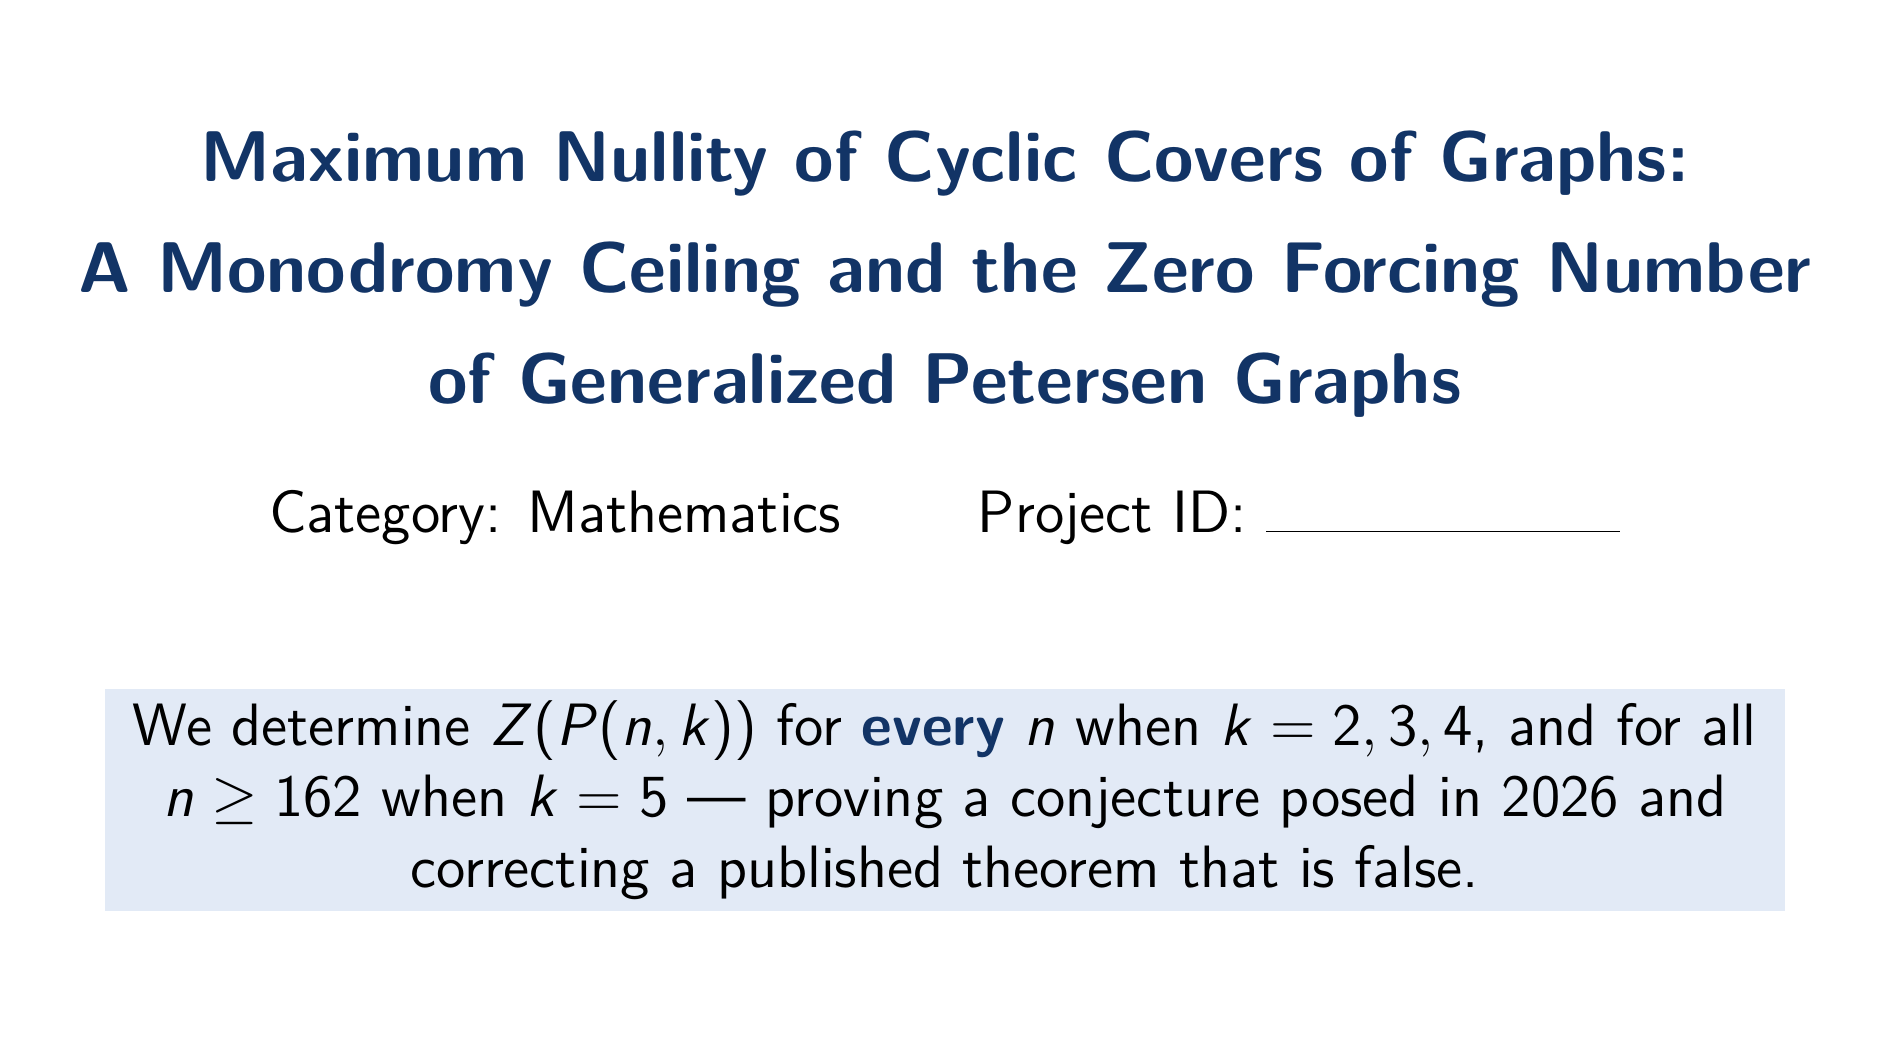
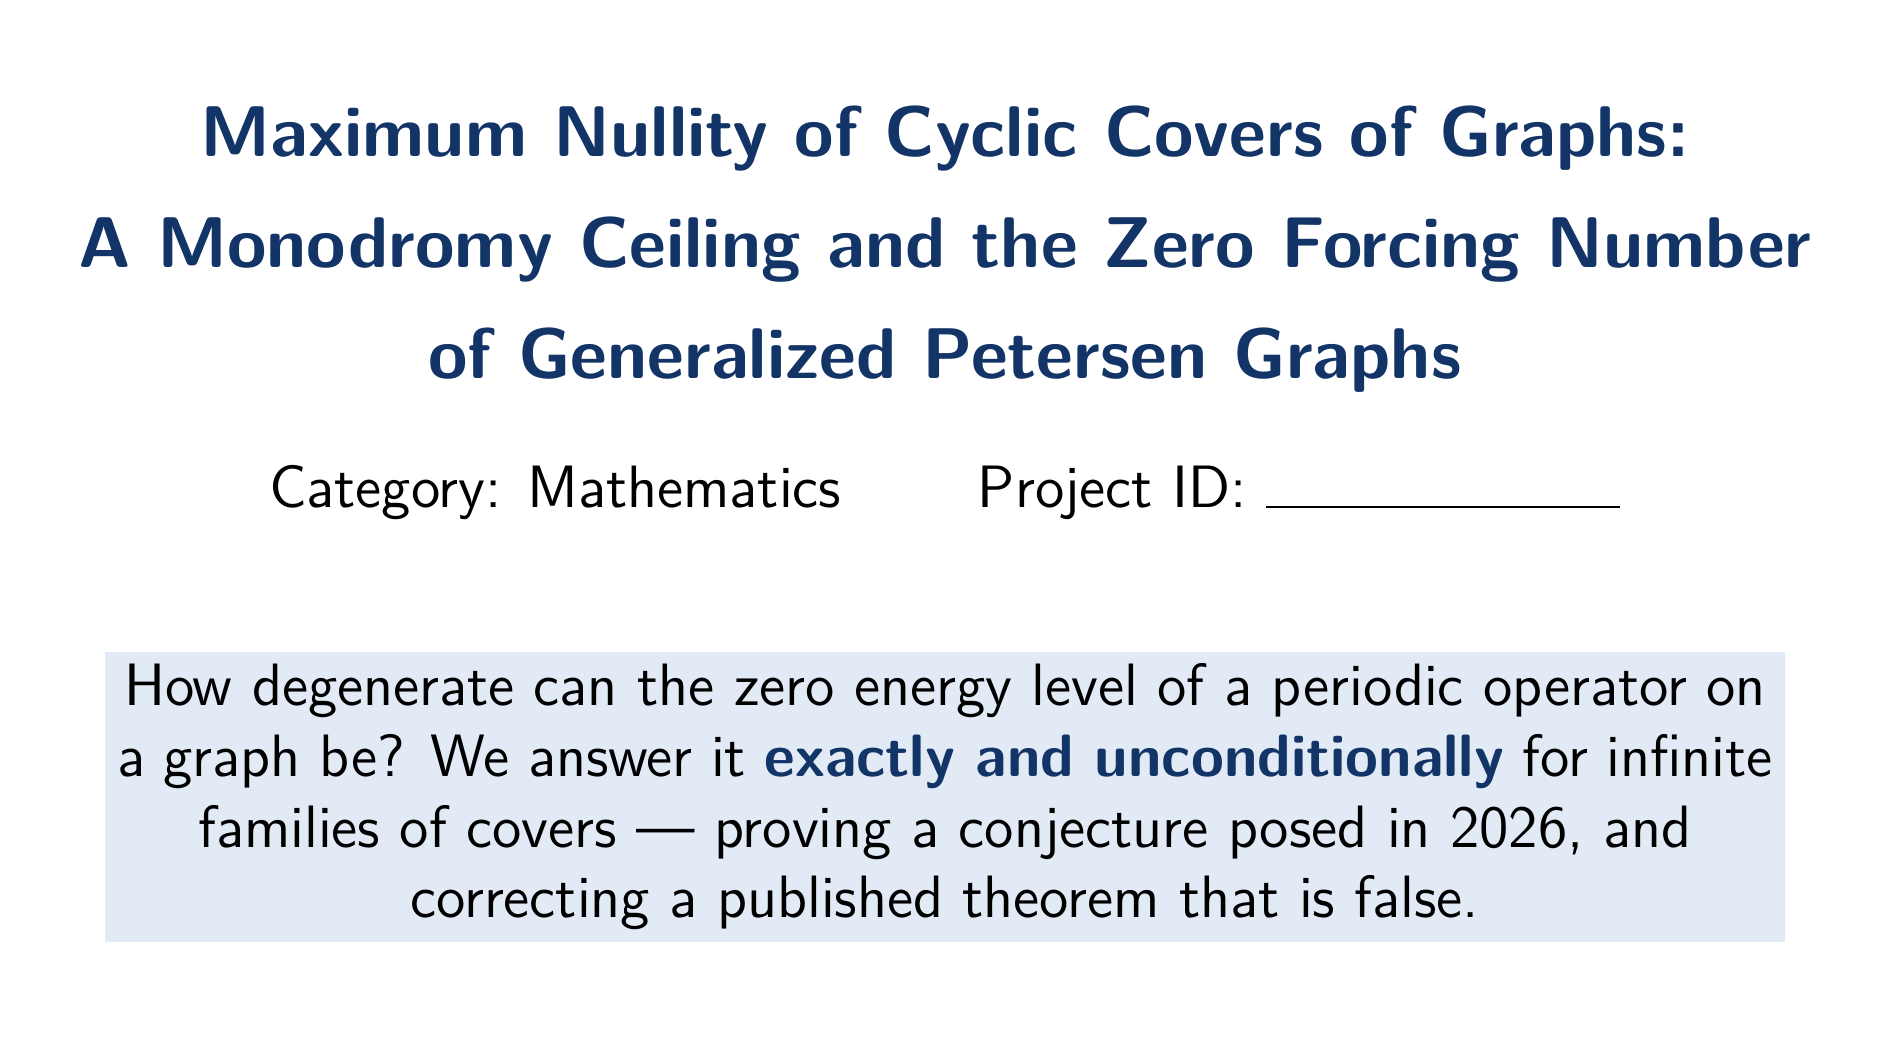
Refine deliverables, interview prep guide, and clarify M(P(n,4)) exact open counts

diff --git a/manuscript/zf_paper.tex b/manuscript/zf_paper.tex
@@ -2235,13 +2235,12 @@ Together with Theorem~\ref{thm:k3all} for $n\ge29$ this leaves \emph{no} value
 of $Z(P(n,4))$ undetermined, which is why $k=4$ appears in
 Theorem~\ref{thm:complete}.
 
-The matrix statement is slightly weaker than the forcing statement at two
-values. $M(P(n,4))=10$ is proved for every $n\ge29$ by
-Theorem~\ref{thm:k3all}, for $n=25,26,27$ by individual certificates, and for
-every $n$ divisible by $60$, $70$ or $90$ by Theorem~\ref{thm:certvals}. At
-$n=24$ and $n=28$ we know $Z=10$ but have no certificate, so $M$ is not
-determined there; nothing suggests $M<Z$ at those two, we simply have not found
-the matrix.
+The matrix statement is weaker than the forcing statement at exactly one value.
+$M(P(n,4))=10$ is proved for every $n\ge29$ by Theorem~\ref{thm:k3all}, for
+$n=25,26,27,28$ by individual certificates, and for every $n$ divisible by $60$,
+$70$ or $90$ by Theorem~\ref{thm:certvals}. Only at $n=24$ do we know $Z=10$
+without a certificate, so $M(P(24,4))$ is not determined; nothing suggests
+$M<Z$ there, we simply have not found the matrix.
 
 \begin{theorem}[$k=3$ completely, and the stabilization threshold]
 \label{thm:k3krishnan}

diff --git a/manuscript/zf_presentation.tex b/manuscript/zf_presentation.tex
@@ -242,12 +242,12 @@ identified as missing.
 \key{Limitations.}
 \begin{itemize}\setlength\itemsep{0.05em}
 \item $k\ge6$: no tiles. $k=5$: threshold $\SettleFive$ not optimal.
-\item $M(P(n,4))$ open at $n=24,28$ --- there $Z=10$ but no certificate.
+\item $M(P(n,4))$ open at one value, $n=24$: there $Z=10$, no certificate.
 \item Whether $M=Z$ in general is open; the rank law is verified, not proved.
 \end{itemize}
 
-\key{Unexpected problems.} A restart budget too small condemned a length that
-does solve, and a stalling search was twice mistaken for non-existence.
+\key{Unexpected problems.} A stalling search was twice mistaken for
+non-existence --- which is why every search now runs with a control.
 \end{frame}
 
 %% ---------------------------------------------------------- 12. REFERENCES

diff --git a/manuscript/zf_poster.tex b/manuscript/zf_poster.tex
@@ -389,8 +389,8 @@ $4.7\times10^{-61}$.
 \textbf{Honest limits.} At $k=5$ the threshold $\SettleFive$ is \emph{not}
 optimal: $\ell=73$ and $76\le\ell\le107$ are still unsolved, and filling them
 would bring it down to $54$. $k\ge6$ has no tiles at all. $Z(P(n,4))$ is known
-for every $n$, but the \emph{matrix} value $M(P(n,4))$ is still open at $n=24$
-and $n=28$, where $Z=10$ but no certificate exists. The $k\ge6$
+for every $n$, but the \emph{matrix} value $M(P(n,4))$ is still open at the
+single value $n=24$, where $Z=10$ but no certificate exists. The $k\ge6$
 congruence-class values are numerical, a weaker standard than the rest. The rank
 law is verified over a range, not proved.
 

diff --git a/deliverables/interview_prep.md b/deliverables/interview_prep.md
@@ -107,3 +107,99 @@ that would be the first strict gap in this family.
   applications bolted on all failed to advance.
 - If asked something unknown, say so and say what would settle it. The rubric
   rewards understanding limitations; it does not reward bluffing.
+
+
+---
+
+## How the official scoresheet actually allocates points
+
+| Category | Pts | What the top box says |
+|---|---|---|
+| Research Question | 10 | Purpose clear; **contribution to field identified**; testable |
+| Method | 15 | Data collection **well-designed**; **variables and controls defined and appropriate** |
+| Execution | 20 | **Reproducibility good**; analysis systematic; **math methods appropriate & correct**; data sufficient |
+| Creativity | 20 | **Student initiated, innovative** |
+| Poster | 10 | Logical, readable, supporting docs |
+| Interview | 25 | Clear responses; understands results; **recognizes impact**; **future ideas** |
+
+Two things follow.
+
+**The poster is worth 10 and the interview 25.** Do not over-rehearse the board.
+
+**Method and Execution are 35 points and they are experiment-shaped** —
+"data collection", "variables and controls", "reproducibility". A pure analysis
+project has to stretch to fit those words. This project fits them literally, and
+the mapping should be said out loud:
+
+- *Data collection* → the computations: exhaustive $Z$ values, tile searches,
+  certifications, each with a recorded budget and residual.
+- *Variables and controls* → every search runs a **control** alongside it. The
+  clearest example is the one that failed (below).
+- *Reproducibility* → `verify_all.py`, one command, 80 checks, and the
+  manuscript's numbers are *generated* from the certificates rather than typed.
+- *Math methods appropriate and correct* → the Krawczyk hypotheses are evaluated
+  in exact rational arithmetic, so the central claim is a proof, not an estimate.
+
+---
+
+## New answers to have ready
+
+**"You say the tiles are certified. Show me the interval."**
+> "There isn't one, and that's deliberate. The Krawczyk criterion needs three
+> norms bounded. Evaluating them in floating point would only estimate them, so
+> I evaluate them exactly. The box centre is a float64 vector and every float64
+> is a dyadic rational, so it's known exactly; $f$ is bilinear with integer
+> coefficients, so $f(z_0)$ and $J(z_0)$ are exactly rational; and $Y$ in the
+> test is *arbitrary*, so rounding it to a rational costs nothing. The obstacle
+> was speed — $\alpha$ needs every entry of a product of order a thousand — so I
+> write the integers in base $2^{20}$ with balanced digits, which keeps each
+> digit-pair product exactly representable in float64 and lets BLAS do the work.
+> $\alpha < 1$ is an exact integer comparison."
+
+**"What is this good for?"**
+> "$M(G)$ is the inverse eigenvalue problem of a graph — which spectra a network
+> can have. The reduction I use is discrete Floquet theory, the same machinery
+> that describes periodic and magnetic Laplacians on covering graphs; those model
+> polymers and nanoribbons. Zero forcing itself came out of quantum control and
+> power-grid monitoring. I'm not claiming an application — I'm saying the
+> quantity is one people already study, and I determined it exactly."
+
+**"What's the biggest thing you don't know?"**
+> "Whether the ceiling is a property of the cover or only of symmetric matrices
+> that respect the rotation. I proved it for this family; the general case is
+> open and it's in the paper as open. I tried to settle it by searching for a
+> counterexample, and I report nothing from that search, because its **control
+> failed** — I asked it to find a matrix I already know exists, and it couldn't.
+> One of the four formulations I tried was a method I'd already withdrawn
+> earlier in the project as unreliable; the control is what caught that I'd
+> re-derived it."
+
+*(This is the strongest answer in the set. It demonstrates understanding of
+limitations, independence, and experimental design in one breath.)*
+
+**"How do you know your computed values are right?"**
+> "Three independent implementations agree on every value: an enumeration that
+> uses the rotation symmetry, an enumeration that uses no symmetry at all — which
+> is what tests the symmetry argument itself — and a CP-SAT integer program that
+> doesn't enumerate subsets. No disagreement anywhere. And when a solver times
+> out, that's recorded as 'not checked', never as agreement."
+
+**"What would you do next?"** *(explicit scoring criterion — have this ranked)*
+> 1. Prove the ceiling for arbitrary cyclic covers — turns a result about one
+>    family into a method for all of them.
+> 2. Prove identity tiles exist for every $k$; this reduces to a controllability
+>    question in $Sp(2k+2,\mathbb R)$, which I've identified but not settled.
+> 3. Separate $M$ from $Z$ somewhere. I expect $M(P(10,2)) < Z(P(10,2)) = 6$ but
+>    have no proof, and no $(n,k)$ is proved to have $M < 2k+2$.
+> 4. Lower the $k=5$ threshold from 162 to 54 by finding 33 more tile lengths —
+>    mechanical, not interesting.
+
+---
+
+## The honest comparison, if asked about other projects
+
+Don't disparage anyone. If pressed on what distinguishes this work:
+
+> "Mine has no hypotheses. The results are unconditional and the cases are
+> closed — 'for every $n$', not 'for large $n$ assuming something unproven'. And
+> every number is machine-checked from the certificates rather than typed in."
